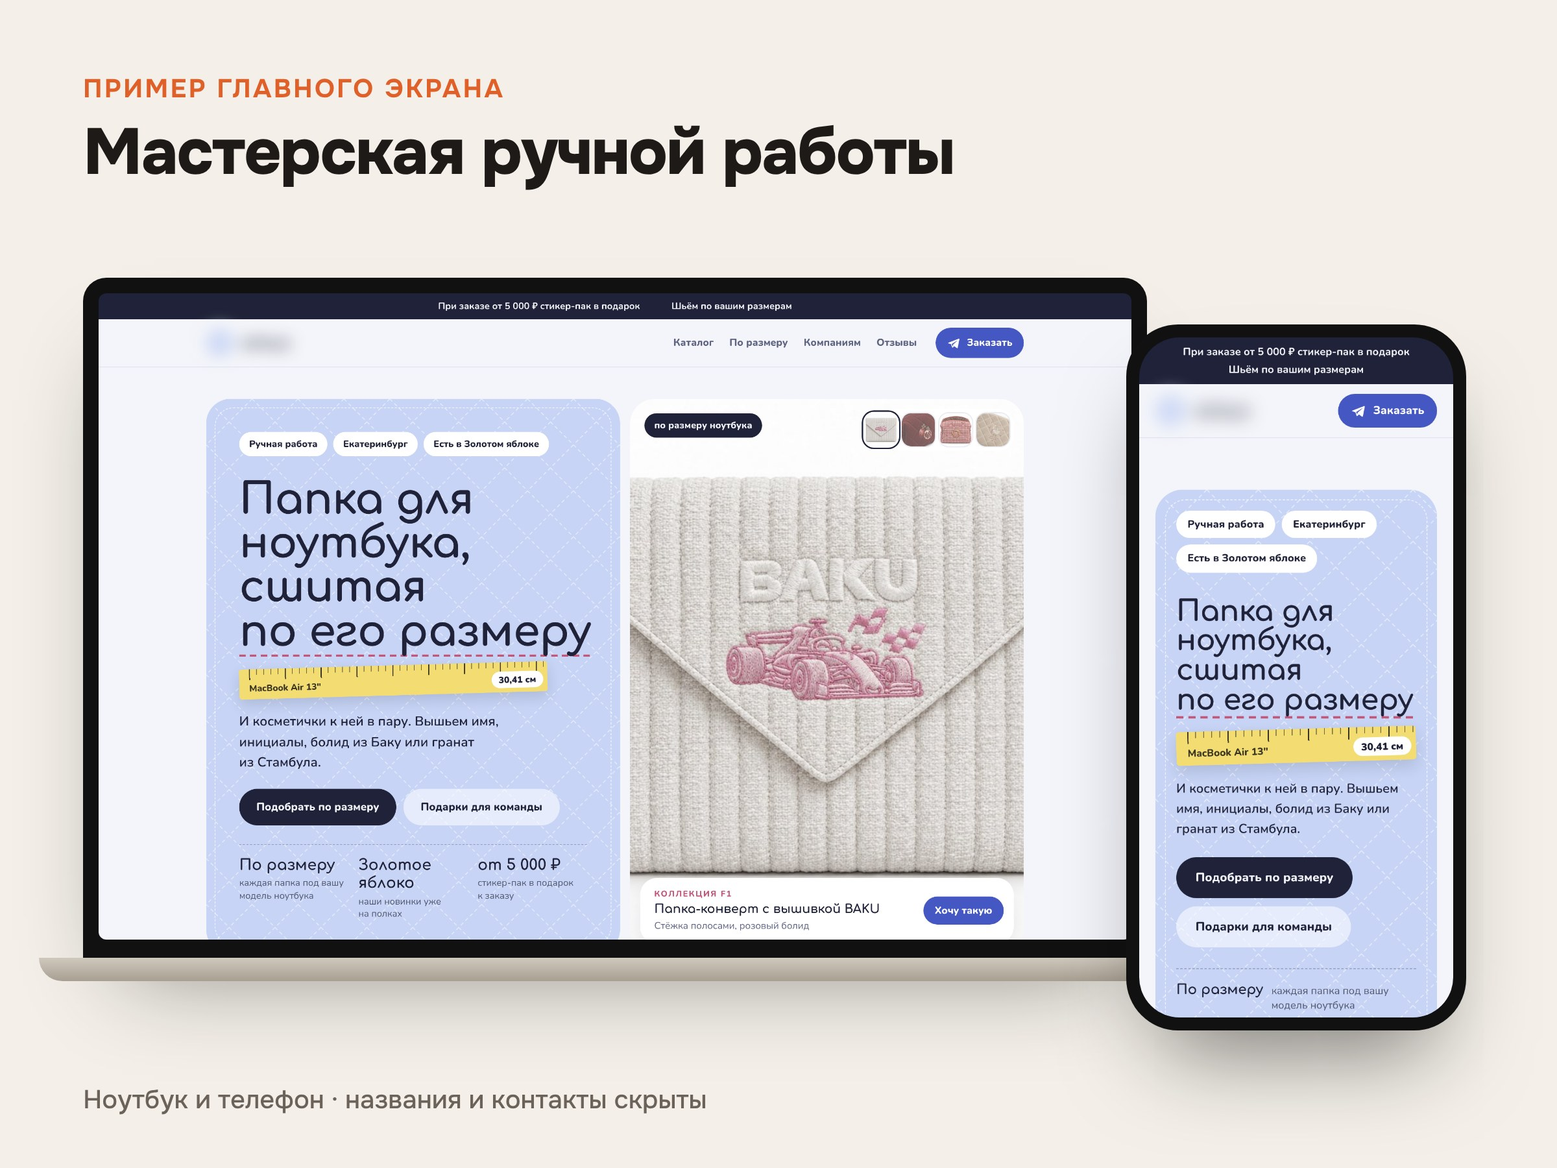
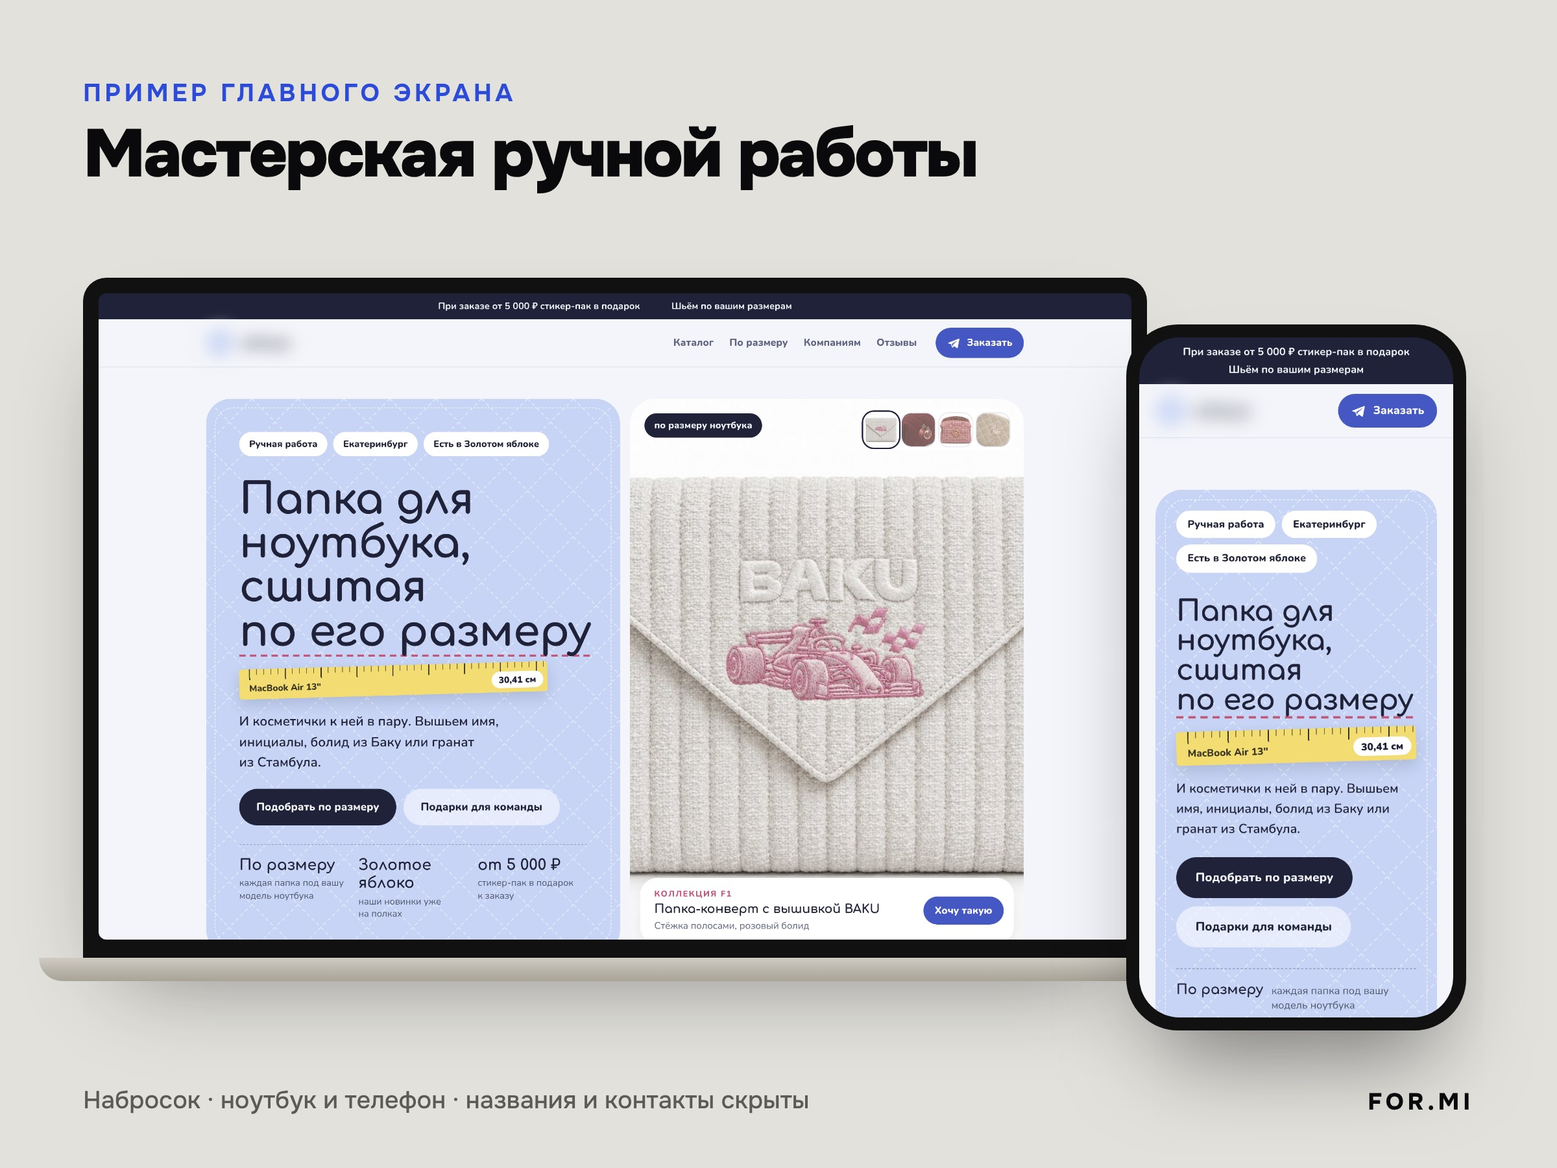
Авито: обложка про Карты в стиле объявления Анастасии, примеры в её цветах
Claude-Session: https://claude.ai/code/session_01MqcZMHdjeZFFUuT8aB5MzJ

Changed region(s): [[0.0312, 0.0622, 0.625, 0.1867], [0.0625, 0.9333, 0.5312, 0.9644], [0.875, 0.9333, 0.9375, 0.9644]]

diff --git a/_instrumenty/avito.js b/_instrumenty/avito.js
@@ -1,8 +1,9 @@
-// Картинки для объявлений на Авито, 4:3 (1200×900, сохраняются в 2400×1800).
+// Картинки для объявлений на Авито, 4:3 (1200×900).
 // Запуск из корня репозитория: node _instrumenty/avito.js
-// Берёт главные экраны из папок клиентов, размывает названия, телефоны и адреса
-// (Авито не пропускает фото с контактами), собирает примеры работ, слайд «как работаю»
-// и обложки. Фото Анастасии кладётся в avito/foto.jpg; пока его нет, на обложке заглушка.
+// Стиль как у объявления Анастасии про сайты: светло-серый фон, синий акцент, рукописная строка, её фото без фона.
+// Фото без фона лежат в avito/foto/*.png (вырезаны rembg из avito/foto/*.jpg).
+// Главные экраны берутся из папок клиентов, названия, телефоны и адреса размываются
+// (Авито не пропускает фото с контактами).
 // Результат: avito/oblozhki/*.jpg
 const {chromium}=require('playwright');
 const fs=require('fs'),path=require('path');
@@ -11,21 +12,19 @@ const root=path.resolve(__dirname,'..');
 const out=path.join(root,'avito','oblozhki');
 const tmp=path.join(root,'avito','.shots');
 fs.mkdirSync(out,{recursive:true});fs.mkdirSync(tmp,{recursive:true});
+const fileUrl=f=>'file://'+f;
 
 const works=[
-  {dir:'mikahome',  niche:'Мебель на заказ'},
-  {dir:'sputnikpdr',niche:'Удаление вмятин без покраски'},
+  {dir:'mikahome',    niche:'Мебель на заказ'},
+  {dir:'sputnikpdr',  niche:'Удаление вмятин без покраски'},
   {dir:'unity-elbrus',niche:'Гостевые дома'},
-  {dir:'avtokids',  niche:'Магазин детских электромобилей'},
-  {dir:'adaya',     niche:'Мастерская ручной работы'},
+  {dir:'avtokids',    niche:'Магазин детских электромобилей'},
+  {dir:'adaya',       niche:'Мастерская ручной работы'},
 ];
 
-const fotoPath=path.join(root,'avito','foto.jpg');
-const hasFoto=fs.existsSync(fotoPath);
-const fileUrl=f=>'file://'+f;
-const C={bg:'#F4F0E9',ink:'#1D1A17',muted:'#6B635A',accent:'#E0602A',card:'#FFFFFF',line:'#E4DDD2',dark:'#1D1A17'};
+// цвета сняты с её обложки
+const C={bg:'#E2E1DC',ink:'#0A0A0C',muted:'#5C5A55',blue:'#2C4BDA',card:'#FFFFFF',line:'#CFCCC4'};
 
-// размываем всё, что выдаёт бренд или контакты
 async function hideBrand(p){
   await p.evaluate(()=>{
     const brand=/(adaya|адая|auto\s?kids|mika\s*home|\bmika\b|pdr|спутник|unity|vaycar)/i;
@@ -68,103 +67,82 @@ async function shoot(b,w){
 }
 
 const head=`<meta charset="utf-8">
-<link rel="stylesheet" href="https://fonts.googleapis.com/css2?family=Onest:wght@400;500;600;700;800&display=swap">
+<link rel="stylesheet" href="https://fonts.googleapis.com/css2?family=Onest:wght@400;500;600;700;800;900&family=Marck+Script&display=swap">
 <style>
 *{box-sizing:border-box}html,body{margin:0}
 .c{width:1200px;height:900px;position:relative;overflow:hidden;background:${C.bg};font-family:Onest,sans-serif;color:${C.ink}}
-.eb{font-size:20px;font-weight:700;letter-spacing:.08em;text-transform:uppercase;color:${C.accent}}
-h1,h2{margin:0;font-weight:800;letter-spacing:-.02em}
+.eb{font-size:19px;font-weight:700;letter-spacing:.14em;text-transform:uppercase;color:${C.blue}}
+.scr{font-family:'Marck Script',cursive;font-weight:400;color:${C.blue}}
+h1,h2{margin:0;font-weight:900;letter-spacing:-.035em}
 .lap{position:absolute}
-.lap .scr{background:#111;border-radius:18px 18px 0 0;padding:12px 12px 14px;box-shadow:0 40px 70px -30px rgb(0 0 0 / .45)}
-.lap .scr img{display:block;width:100%;border-radius:6px}
-.lap .base{height:18px;margin:0 -34px;background:linear-gradient(#CFC8BD,#A89F92);border-radius:0 0 18px 18px}
+.lap .sc{background:#111;border-radius:18px 18px 0 0;padding:12px 12px 14px;box-shadow:0 40px 70px -30px rgb(0 0 0 / .45)}
+.lap .sc img{display:block;width:100%;border-radius:6px}
+.lap .base{height:18px;margin:0 -34px;background:linear-gradient(#CFCBC3,#A8A297);border-radius:0 0 18px 18px}
 .tel{position:absolute;background:#111;border-radius:40px;padding:10px;box-shadow:0 40px 70px -25px rgb(0 0 0 / .5)}
 .tel img{display:block;width:100%;border-radius:31px}
-.chips{display:flex;flex-wrap:wrap;gap:12px}
-.chips span{font-size:22px;font-weight:600;padding:12px 20px;border-radius:999px;background:${C.card};border:1px solid ${C.line}}
-.chips span.a{background:${C.accent};border-color:${C.accent};color:#fff}
-.who{font-size:20px;color:${C.muted};font-weight:500}
+.brand{position:absolute;font-size:18px;font-weight:800;letter-spacing:.16em;color:${C.ink}}
 </style>`;
 
 const exampleHtml=w=>`<!doctype html><html lang="ru"><head>${head}</head><body><div class="c">
-<div style="position:absolute;left:64px;top:56px;display:grid;gap:10px">
+<div style="position:absolute;left:64px;top:60px;display:grid;gap:8px">
   <div class="eb">Пример главного экрана</div>
-  <h2 style="font-size:50px;line-height:1.05">${w.niche}</h2>
+  <h2 style="font-size:52px;line-height:1.05">${w.niche}</h2>
 </div>
-<div class="lap" style="left:64px;top:214px;width:820px"><div class="scr"><img src="${fileUrl(w.lap)}"></div><div class="base"></div></div>
+<div class="lap" style="left:64px;top:214px;width:820px"><div class="sc"><img src="${fileUrl(w.lap)}"></div><div class="base"></div></div>
 <div class="tel" style="right:70px;top:250px;width:262px"><img src="${fileUrl(w.tel)}"></div>
-<div style="position:absolute;left:64px;bottom:40px" class="who">Ноутбук и телефон · названия и контакты скрыты</div>
+<div style="position:absolute;left:64px;bottom:40px;font-size:19px;color:${C.muted};font-weight:500">Набросок · ноутбук и телефон · названия и контакты скрыты</div>
+<div class="brand" style="right:64px;bottom:40px">FOR.MI</div>
 </div></body></html>`;
 
 const stepsHtml=()=>`<!doctype html><html lang="ru"><head>${head}
-<style>.st{display:grid;grid-template-columns:84px 1fr;gap:24px;align-items:center;padding:26px 0;border-top:1px solid ${C.line}}
-.st b{width:70px;height:70px;border-radius:50%;background:${C.accent};color:#fff;display:grid;place-items:center;font-size:32px;font-weight:800}
-.st h3{margin:0 0 6px;font-size:34px;font-weight:700;letter-spacing:-.01em}.st p{margin:0;font-size:24px;color:${C.muted};line-height:1.35}</style>
-</head><body><div class="c" style="padding:64px 72px">
+<style>.st{display:grid;grid-template-columns:84px 1fr;gap:24px;align-items:center;padding:24px 0;border-top:1px solid ${C.line}}
+.st b{width:70px;height:70px;border-radius:50%;background:${C.blue};color:#fff;display:grid;place-items:center;font-size:32px;font-weight:800}
+.st h3{margin:0 0 6px;font-size:34px;font-weight:800;letter-spacing:-.02em}.st p{margin:0;font-size:24px;color:${C.muted};line-height:1.35}</style>
+</head><body><div class="c" style="padding:60px 72px">
 <div class="eb">Как работаем</div>
-<h2 style="font-size:58px;line-height:1.05;margin:14px 0 34px">Вы видите свой сайт до оплаты</h2>
+<h2 style="font-size:60px;line-height:1.05;margin:12px 0 30px">Вы видите свой сайт <span class="scr" style="font-size:72px;letter-spacing:0;word-spacing:-.25em">до оплаты</span></h2>
 <div class="st"><b>1</b><div><h3>Пишете, чем занимаетесь</h3><p>Задам 2–3 вопроса о клиентах и услугах</p></div></div>
 <div class="st"><b>2</b><div><h3>Через 1–2 дня показываю набросок</h3><p>Структура, первый экран с вашим названием и фото, разбор конкурентов</p></div></div>
 <div class="st"><b>3</b><div><h3>Нравится: делаем сайт целиком</h3><p>Цену считаем по блокам, оплата по этапам</p></div></div>
 <div class="st"><b>4</b><div><h3>Сайт полностью ваш</h3><p>Домен и доступы оформляем на вас</p></div></div>
+<div class="brand" style="right:72px;top:66px">FOR.MI</div>
 </div></body></html>`;
 
-const fotoBlock=(st)=>hasFoto
-  ? `<div style="${st};border-radius:260px 260px 28px 28px;overflow:hidden;background:#ddd"><img src="${fileUrl(fotoPath)}" style="width:100%;height:100%;object-fit:cover;object-position:center 20%"></div>`
-  : `<div style="${st};border-radius:260px 260px 28px 28px;background:#D9D1C5;display:grid;place-items:center;color:#8A8074;font-size:26px;font-weight:600">ваше фото</div>`;
+const pin=`<svg width="30" height="30" viewBox="0 0 24 24"><path fill="${C.blue}" d="M12 2a7 7 0 0 0-7 7c0 5.2 7 13 7 13s7-7.8 7-13a7 7 0 0 0-7-7zm0 9.5A2.5 2.5 0 1 1 12 6.5a2.5 2.5 0 0 1 0 5z"/></svg>`;
+const tick=t=>`<div style="display:flex;gap:12px;align-items:center"><span style="flex:none;width:26px;height:26px;border-radius:50%;background:${C.blue};color:#fff;display:grid;place-items:center;font-size:15px;font-weight:800">✓</span>${t}</div>`;
 
-const coverHtml=o=>`<!doctype html><html lang="ru"><head>${head}</head><body><div class="c">
-<div style="position:absolute;left:64px;top:64px;width:600px;display:grid;gap:22px">
-  <div class="eb">${o.eyebrow}</div>
-  <h1 style="font-size:${o.size||66}px;line-height:1.02">${o.title}</h1>
-  <div style="font-size:27px;line-height:1.35;color:${C.muted}">${o.sub}</div>
-  <div class="chips" style="margin-top:8px">${o.chips.map((c,i)=>`<span class="${i===0?'a':''}">${c}</span>`).join('')}</div>
+const kartyHtml=()=>`<!doctype html><html lang="ru"><head>${head}</head><body><div class="c">
+<img src="${fileUrl(path.join(root,'avito','foto','foto-2-kub.png'))}" style="position:absolute;right:-235px;top:34px;height:1000px">
+<div style="position:absolute;left:72px;top:140px;width:600px">
+  <div class="eb">Яндекс Карты и 2ГИС · работаю удалённо</div>
+  <h1 style="font-size:82px;line-height:.98;margin-top:26px">Клиенты рядом выберут вас</h1>
+  <div class="scr" style="font-size:100px;line-height:1;margin-top:6px;word-spacing:-.25em">на картах</div>
+  <div style="margin-top:46px;display:inline-grid;gap:4px;background:${C.blue};color:#fff;border-radius:18px;padding:20px 30px">
+    <div style="font-size:30px;font-weight:800">Напишите «КАРТЫ»</div>
+    <div style="font-size:19px;font-weight:500;opacity:.92">покажу, что поправить в вашей карточке</div>
+  </div>
 </div>
-${fotoBlock('position:absolute;right:64px;top:64px;width:430px;height:640px')}
-${o.tel?`<div class="tel" style="right:400px;top:430px;width:200px;border-radius:32px;padding:8px"><img src="${fileUrl(o.tel)}" style="border-radius:25px"></div>`:''}
-${o.extra||''}
-<div style="position:absolute;left:64px;bottom:48px" class="who">Анастасия · сайты для малого бизнеса</div>
+<div style="position:absolute;right:56px;bottom:60px;width:330px;background:${C.card};border-radius:22px;padding:22px 24px;box-shadow:0 30px 60px -20px rgb(0 0 0 / .35);display:grid;gap:14px;font-size:21px;font-weight:600">
+  <div style="display:flex;gap:10px;align-items:center;font-size:22px;font-weight:800">${pin}Ваша карточка</div>
+  ${tick('фото и описание')}${tick('услуги с ценами')}${tick('ответы на отзывы')}
+</div>
+<div class="brand" style="left:72px;bottom:48px">FOR.MI</div>
 </div></body></html>`;
-
-const mapsExtra=`<div style="position:absolute;right:300px;top:440px;width:330px;background:#fff;border-radius:22px;padding:22px 24px;box-shadow:0 30px 60px -25px rgb(0 0 0 / .35);display:grid;gap:12px;font-size:21px">
-  <div style="height:96px;border-radius:12px;background:linear-gradient(135deg,#EADFD0,#D7C6B0);display:grid;place-items:center;color:#7A6B58;font-weight:600">фото и обложка</div>
-  ${['описание и категории','цены и услуги','часы и кнопки связи','ответы на отзывы'].map(t=>`<div style="display:flex;gap:10px;align-items:center"><span style="width:22px;height:22px;border-radius:50%;background:${C.accent};color:#fff;display:grid;place-items:center;font-size:14px;font-weight:800">✓</span>${t}</div>`).join('')}
-</div>`;
 
 (async()=>{
   const b=await chromium.launch();
   for(const w of works)await shoot(b,w);
-  const render=async(html,name)=>{
+  const render=async(html,name,dsf=2)=>{
     const f=path.join(tmp,name+'.html');fs.writeFileSync(f,html);
-    const p=await b.newPage({viewport:{width:1200,height:900},deviceScaleFactor:2});
+    const p=await b.newPage({viewport:{width:1200,height:900},deviceScaleFactor:dsf});
     await p.goto(fileUrl(f));await p.waitForLoadState('networkidle').catch(()=>{});
     await p.evaluate(()=>document.fonts.ready);await p.waitForTimeout(300);
-    await p.screenshot({path:path.join(out,name+'.jpg'),type:'jpeg',quality:88});
+    await p.screenshot({path:path.join(out,name+'.jpg'),type:'jpeg',quality:90});
     await p.close();
   };
-  const byDir=d=>works.find(w=>w.dir===d);
-  await render(coverHtml({
-    eyebrow:'Сайт под ключ для бизнеса',
-    title:'Покажу ваш сайт до оплаты',
-    sub:'Первый экран с вашим названием и фото через 1–2 дня',
-    chips:['от 15 000 ₽','домен на вас','оплата по этапам'],
-    tel:byDir('mikahome').tel}),'1-sait-oblozhka');
-  await render(coverHtml({
-    eyebrow:'Лендинг для мастера и салона',
-    title:'Сайт сам ответит на «сколько стоит?»',
-    size:58,
-    sub:'Цены, работы до и после, запись в пару касаний',
-    chips:['от 15 000 ₽','первый экран до оплаты'],
-    tel:byDir('sputnikpdr').tel}),'2-lending-oblozhka');
-  await render(coverHtml({
-    eyebrow:'Яндекс Карты и 2ГИС',
-    title:'Оформлю карточку, чтобы рядом выбирали вас',
-    size:56,
-    sub:'Фото, цены, описание и ответы на отзывы',
-    chips:['от 10 000 ₽'],
-    extra:mapsExtra}),'3-karty-oblozhka');
-  await render(stepsHtml(),'0-kak-rabotaem');
+  await render(kartyHtml(),'karty-oblozhka',1.25);
+  await render(stepsHtml(),'kak-rabotaem');
   for(const w of works)await render(exampleHtml(w),'primer-'+w.dir);
   await b.close();
-  console.log('готово:',fs.readdirSync(out).join(', '),hasFoto?'':'(фото пока заглушка)');
+  console.log('готово:',fs.readdirSync(out).join(', '));
 })();

diff --git a/avito/obyavleniya.md b/avito/obyavleniya.md
@@ -1,6 +1,6 @@
 # Объявления на Авито
 
-Картинки лежат в `avito/oblozhki/`. Пересобрать: `node _instrumenty/avito.js` (фото Анастасии кладём в `avito/foto.jpg`).
+Картинки лежат в `avito/oblozhki/`, в стиле её объявления: серый фон #E2E1DC, синий #2C4BDA, рукописная строка Marck Script. Пересобрать: `node _instrumenty/avito.js`. Фото Анастасии в `avito/foto/` (jpg исходники, png без фона). На обложке про сайты стоит foto-3-stoit, на обложке про Карты foto-2-kub: в разных объявлениях разные фото.
 
 Что уже висит: объявление Анастасии про сайты от 15 ноября (№8549622507), обложка «Покажу ваш сайт до оплаты» с её фото и кодовым словом «НАБРОСОК». На 21 ноября у него 1 просмотр, 0 контактов.
 
@@ -10,7 +10,7 @@
 
 **Название:** Создание сайта под ключ для бизнеса
 **Цена:** 15 000 ₽ (в тексте «от»)
-**Фото по порядку:** 1-sait-oblozhka, 0-kak-rabotaem, primer-mikahome, primer-avtokids, primer-adaya
+**Фото:** у неё свои 10 фото. Наши kak-rabotaem и primer-* идут в раздел «Портфолио» этого объявления.
 
 **Описание:**
 
@@ -45,7 +45,7 @@
 
 **Название:** Лендинг и сайт-визитка для мастера и салона
 **Цена:** 15 000 ₽
-**Фото по порядку:** 2-lending-oblozhka, primer-sputnikpdr, primer-unity-elbrus
+**Фото:** обложку сделать, когда решим выкладывать.
 
 **Описание:**
 
@@ -70,11 +70,11 @@
 
 ## 3. Карточка в Картах и 2ГИС
 
-**Статус:** выкладываем вторым объявлением, это другая услуга. Обложку пересобрать в стиле её объявления, когда будет исходное фото.
+**Статус:** выкладываем вторым объявлением, это другая услуга. Обложка готова, кодовое слово «КАРТЫ».
 
 **Название:** Оформление карточки в Яндекс Картах и 2ГИС
 **Цена:** 10 000 ₽
-**Фото:** 3-karty-oblozhka
+**Фото:** karty-oblozhka
 
 **Описание:**
 
@@ -101,6 +101,16 @@
 > Добрый день!
 > Отлично, сделаем)
 > Расскажите, чем занимаетесь и есть ли сейчас сайт?
+
+**Написали «КАРТЫ»** (кодовое слово с обложки про Карты)
+> Добрый день!
+> Сейчас посмотрю)
+> Как называется ваша компания и в каком вы городе?
+
+После того как нашла карточку, по одному пункту в сообщении:
+> Посмотрела вашу карточку
+> [что не так, например: цен нет, последние фото трёхлетней давности, на отзывы никто не отвечает]
+> Могу оформить всё это за вас. Как вы на это смотрите?
 
 **«Сколько стоит?»**
 > Добрый день!
